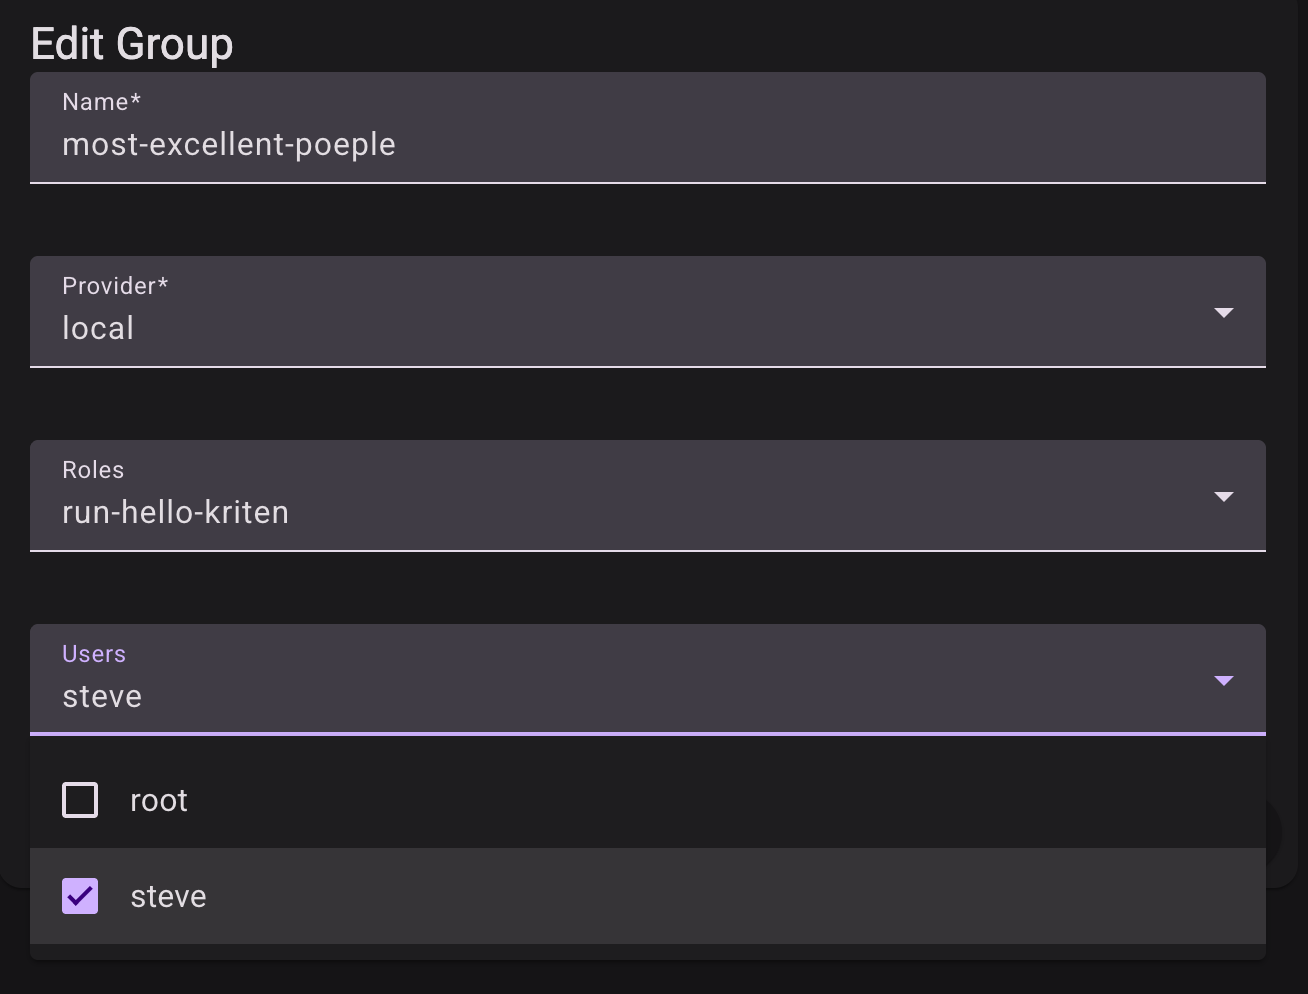
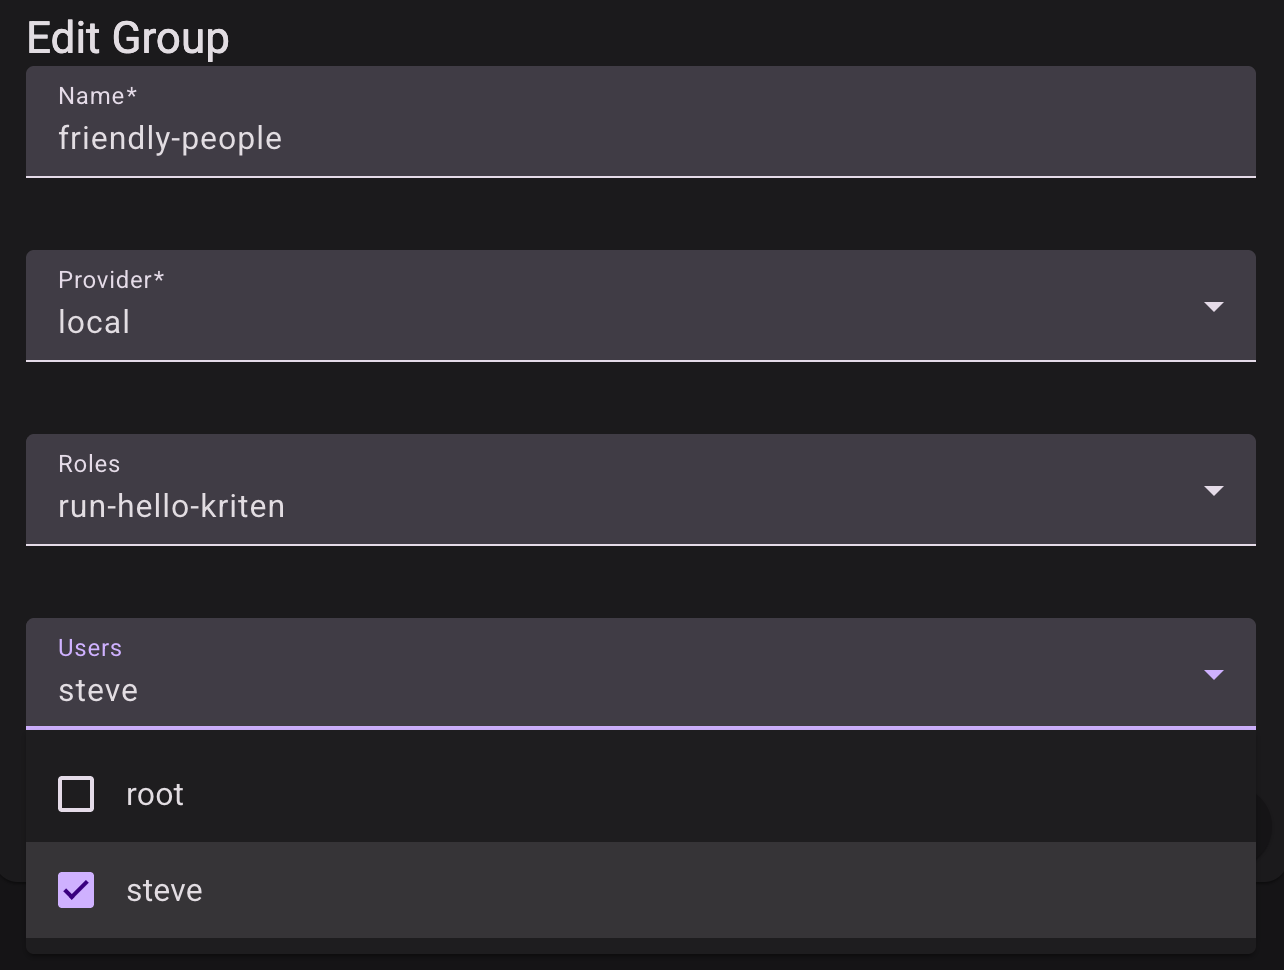
Corrected RBAC example.

diff --git a/docs/index.md b/docs/index.md
@@ -26,11 +26,13 @@ The infratructure owners need:
 - Audit trail.
 - A reliable and scalable platform.
 
-## “Genius is making complex ideas simple, not making simple ideas complex.”
-
-Code in any language can be published in 2 steps (or less in some cases). 
+Code in any language can be published in 2 steps (or less in some cases).
 Kriten takes care of building an API endpoint that consumers can use to run the code.
 The code is run on Kubernetes, leveraging the scalability, reliability and portability benefits, but after installation no Kubernetes knowledge is needed.
+
+## Network Automation Forum
+
+Kriten is in the Executor category of the [Network Automation Framework](https://reference.networkautomation.forum/Framework/Framework/#architecture).
 
 ## Open-source
 

diff --git a/docs/user_guide/rbac.md b/docs/user_guide/rbac.md
@@ -28,7 +28,7 @@ Jobs only have 'read' permission.
     | `Admin`                | *             | *            | write      |
     | `WriteAllRunners`      | runners       | *            | write      |
     | `WriteAllTasks`        | tasks         | *            | write      |
-    | `WriteAllJobs`         | jobs          | *            | write      |
+    | `ExecuteAllTasks`      | tasks         | *            | execute    |
     | `WriteAllUsers`        | users         | *            | write      |
     | `WriteAllRoles`        | roles         | *            | write      |
 
